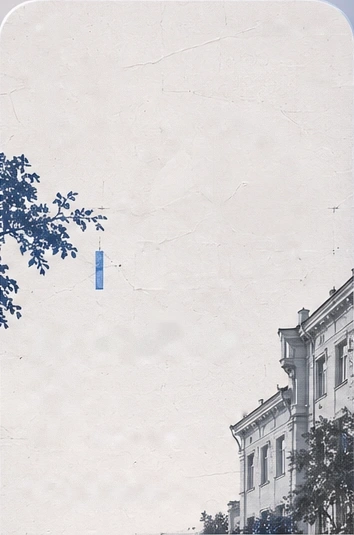
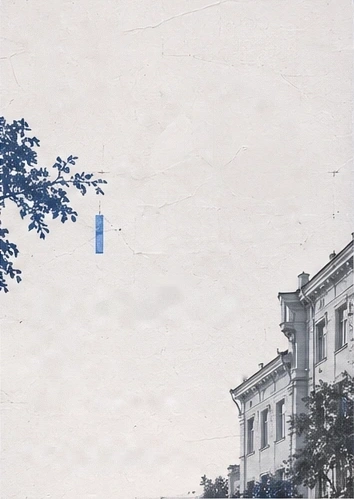
Add files via upload

diff --git a/style.css b/style.css
@@ -11,3 +11,34 @@ body{font-family:Arial,Helvetica,sans-serif}button,input,a{font-family:inherit}b
 .bottom-nav{color:var(--ink);background-color:var(--surface);background-image:linear-gradient(#eae6e1a8,#eae6e1a8),url('assets/paper.webp');background-size:auto;box-shadow:0 -1px 3px #fff5;min-height:76px;padding-bottom:max(4.4cqw,env(safe-area-inset-bottom));}.nav-item{color:#171717;min-height:44px}.nav-item span{color:inherit}.nav-item.active{color:#175bb6}.nav-item.active svg{stroke:currentColor}.nav-item.active[data-tab=home] svg{fill:currentColor}.nav-item.active:after{background:#2465ba}.nav-item:active{opacity:.72}
 .inner-page{color:var(--ink);min-height:0;padding-bottom:10cqw}.page-header,.small-brand,.inner-page h2,.intro,.panel h3,.panel p,.drink strong,.history h3{color:var(--ink)}.page-header{margin-bottom:9cqw}.eyebrow,.loyalty .eyebrow{color:#1756a9}.notice,.small-note,.drink small,.sheet .sheet-meta{color:#514b45}.panel{background:#f6f2eced;border-color:#c7bfb4}.primary{color:#fff;background:#292929;min-height:44px}.secondary{color:#242424;background:#f4efe9b3;border-color:#a59d93;min-height:44px}.primary:hover{background:#393939}.secondary:hover{background:#f8f5f0}.sheet{color:var(--ink);background-color:var(--surface);max-height:80dvh;overflow:auto}.sheet-header h2,.sheet p,.close{color:var(--ink)}.sheet a,.sheet .sheet-link{color:#1756a9;min-height:44px}.sheet .primary{color:#fff}.close{min-width:44px;min-height:44px;display:grid;place-items:center}.sheet-header h2{margin:0;line-height:1.15}.sheet-header{margin-bottom:12px}.sheet .sheet-link:hover{background:#ffffff54}.search-label{font-size:3.6cqw;color:#3e3934;display:block;font-weight:600;margin:5cqw 0 2cqw}.search{width:100%;border:1px solid #a99f94;border-radius:3cqw;background:#f7f3ed;color:#242424;min-height:46px;font-size:16px;padding:10px 12px;appearance:none}.search::placeholder{color:#655e55}.filters{display:flex;gap:2cqw;flex-wrap:wrap;margin:3cqw 0 5cqw}.filters button{background:#f5f1eb;color:#302b27;border:1px solid #b9b0a6;border-radius:99px;font-size:3.6cqw;padding:2.4cqw 3.2cqw;min-height:36px}.filters button[aria-pressed=true]{background:#245eae;border-color:#245eae;color:#fff}.drink{color:#242424;min-height:64px}.drink:hover{background:#fff5}.history{margin-top:6cqw}.history h3{font-size:5.2cqw;margin:0 0 3cqw}.history-row{display:flex;justify-content:space-between;align-items:center;border-top:1px solid var(--line);padding:3.5cqw 0;gap:12px;font-size:4cqw}.history-row time{color:#514b45;font-size:3.5cqw}.history-row strong{color:#1756a9}.toast{position:fixed;bottom:110px;left:50%;transform:translateX(-50%);z-index:20;background:#292929;color:#fff;padding:12px 20px;border-radius:15px;font-size:14px;box-shadow:0 5px 15px #0003;width:max-content;max-width:85vw;text-align:center}.loyalty strong{color:#252525}.visit-dots span{border-color:#a59e95}.visit-dots span.filled{background:#2465ba;border-color:#2465ba}
 @media(min-width:600px){.site{min-height:0}.inner-page{min-height:165cqw}}@media(max-width:350px){.site{width:calc(100% - 12px)}.filters button{font-size:12px}.nav-item{font-size:12px}}@media(prefers-reduced-motion:reduce){*,*::before,*::after{transition:none!important;animation:none!important;scroll-behavior:auto!important}}
+
+/* v3 — the browser viewport is the canvas, not a phone mockup. */
+html,body{width:100%;height:100%;margin:0;overflow:hidden;overscroll-behavior:none;background:#eae6e1;color-scheme:only light}
+body{display:flex;justify-content:center;align-items:stretch}
+.site{width:100%;max-width:none;height:100vh;height:100dvh;min-height:0;margin:0;border:0;border-radius:0;box-shadow:none;overflow:hidden;display:flex;flex-direction:column;padding:env(safe-area-inset-top,0px) env(safe-area-inset-right,0px) 0 env(safe-area-inset-left,0px);}
+.home{flex:1 1 0;min-height:0;display:flex;flex-direction:column;overflow:hidden;}
+.hero{flex:1 1 0;min-height:0;height:auto;container-type:size;background-size:100% 100%;}
+/* Sizes respond to BOTH dimensions of the available hero, not just width. */
+.hero .brand{top:3.2%;left:6.2%;width:min(31.07cqw,23cqh);height:min(25.14cqw,18.6cqh);}
+.hero .burger{top:3%;right:4.5%;width:44px;height:44px;min-width:44px;min-height:44px;padding:8px;}
+.hero .burger svg{width:28px;height:28px;}
+.hero .clock{top:14.5%;left:auto;right:12.3%;width:min(54cqw,43cqh);height:auto;aspect-ratio:1;}
+.hero h1{top:auto;bottom:23.8%;left:7.06%;width:min(62.43cqw,43.2cqh);height:min(25.99cqw,18cqh);}
+.hero .tagline{top:auto;bottom:15.4%;left:7.4%;font-size:clamp(15px,min(5.25cqw,3.65cqh),23px);line-height:1.15;letter-spacing:-.025em;white-space:nowrap;}
+.hero .location{top:auto;bottom:3.3%;left:6.8%;min-height:44px;gap:3cqw;font-size:clamp(12px,min(4.12cqw,3.05cqh),18px);line-height:1.2;}
+.hero .location svg{width:clamp(22px,6.8cqw,30px);height:clamp(22px,6.8cqw,30px);}
+.city-strip{flex:none;height:clamp(46px,10.6dvh,106px);margin:clamp(5px,1dvh,9px) 0 0 3cqw;}
+.order-wrap{flex:none;padding:clamp(7px,1.45dvh,13px) 4.2cqw clamp(9px,1.7dvh,16px);}
+.order{height:clamp(44px,6.8dvh,62px);font-size:clamp(16px,5.25cqw,23px);gap:5cqw;}
+.order svg{width:clamp(23px,8cqw,32px);height:clamp(23px,8cqw,32px);}
+.order .order-arrow{width:clamp(20px,6.5cqw,28px);height:clamp(20px,6.5cqw,28px);top:50%;transform:translateY(-50%);}
+.bottom-nav{position:relative;bottom:auto;flex:none;height:auto;min-height:0;margin:0;padding:clamp(7px,1.3dvh,12px) 2cqw calc(clamp(8px,1.2dvh,12px) + env(safe-area-inset-bottom,0px));border-radius:22px 22px 0 0;}
+.nav-item{height:clamp(48px,7.1dvh,62px);min-height:44px;gap:clamp(4px,.8dvh,7px);font-size:clamp(11px,3.5cqw,15px);justify-content:flex-start;padding:2px 0 7px;}
+.nav-item svg{width:clamp(23px,6.8cqw,30px);height:clamp(23px,6.8cqw,30px);flex:none;}
+.nav-item.active:after{bottom:0;width:clamp(35px,13cqw,56px);height:2px;}
+.inner-page{flex:1 1 0;min-height:0;overflow:auto;overscroll-behavior:contain;padding-bottom:7cqw;}
+.toast{bottom:calc(90px + env(safe-area-inset-bottom,0px));}
+@media(min-width:600px){html,body{background:#b9bdc7}.site{max-width:480px;}}
+@media(max-height:600px){.hero .clock{top:12%;width:min(52cqw,41cqh)}.hero h1{bottom:26%;height:min(25.99cqw,17cqh);width:min(62.43cqw,40.8cqh)}.hero .tagline{bottom:17%;}.hero .location{bottom:1%;}.city-strip{height:clamp(35px,9dvh,65px)}.order-wrap{padding-top:7px;padding-bottom:8px}.bottom-nav{padding-top:6px;padding-bottom:calc(6px + env(safe-area-inset-bottom,0px));}}
+/* Extreme landscape: put the hero content alongside the action area. */
+@media(orientation:landscape) and (max-height:500px){.site{max-width:none}.home{display:grid;grid-template-columns: minmax(0,1fr) minmax(0,.55fr);grid-template-rows:1fr auto;column-gap:12px;}.hero{grid-row:1/3}.city-strip{height:auto;min-height:0;margin:8px 8px 0 0;}.order-wrap{padding:8px 8px 8px 0}.order{font-size:16px;gap:8px}.order span{margin-right:15px}.order .order-arrow{right:4%}.bottom-nav{padding:4px 2cqw calc(4px + env(safe-area-inset-bottom,0px))}.nav-item{height:44px;gap:3px}.hero .clock{right:9%;top:7%;}.hero h1{bottom:31%}.hero .tagline{bottom:21%}.hero .location{bottom:1%;font-size:12px}.hero .brand{top:4%;}.inner-page{padding:20px 24px}.page-header{margin-bottom:20px}}

diff --git a/app.js b/app.js
@@ -34,7 +34,7 @@ $('#add-visit').addEventListener('click',()=>{if(visits<12){visits++;history.uns
 $('#reset-visits').addEventListener('click',()=>{openSheet('Сбросить прогресс?','<p>Тестовые посещения и история будут удалены. Циферблат вернётся к состоянию 1 из 12.</p><button class="primary" id="confirm-reset" type="button">Сбросить</button><button class="secondary" id="cancel-reset" type="button">Отмена</button>');$('#confirm-reset').onclick=()=>{visits=1;history=[];storeVisits();sheet.close();toast('Прогресс сброшен');};$('#cancel-reset').onclick=()=>sheet.close();});
 updateVisits();
 const pages = ['home','menu','events','profile'];
-function showPage(){const wanted=location.hash.slice(1);const page=pages.includes(wanted)?wanted:'home';$$('[data-page]').forEach(el=>el.hidden=el.dataset.page!==page);$$('[data-tab]').forEach(el=>{const active=el.dataset.tab===page;el.classList.toggle('active',active);if(active)el.setAttribute('aria-current','page');else el.removeAttribute('aria-current');});window.scrollTo({top:0,behavior:'instant'});document.title=({home:'12 — Кофейня',menu:'Меню — 12',events:'События — 12',profile:'Профиль — 12'})[page];}
+function showPage(){const wanted=location.hash.slice(1);const page=pages.includes(wanted)?wanted:'home';$$('[data-page]').forEach(el=>el.hidden=el.dataset.page!==page);$$('[data-tab]').forEach(el=>{const active=el.dataset.tab===page;el.classList.toggle('active',active);if(active)el.setAttribute('aria-current','page');else el.removeAttribute('aria-current');});document.querySelector('[data-page="'+page+'"]').scrollTop=0;document.title=({home:'12 — Кофейня',menu:'Меню — 12',events:'События — 12',profile:'Профиль — 12'})[page];}
 function go(page){if(location.hash===`#${page}`)showPage();else location.hash=page;}
 window.addEventListener('hashchange',showPage);showPage();
 $$('[data-go]').forEach(el=>el.addEventListener('click',()=>go(el.dataset.go)));

diff --git a/index.html b/index.html
@@ -1,7 +1,7 @@
 <!doctype html>
 <html lang="ru">
 <head>
-<meta charset="utf-8"><meta name="viewport" content="width=device-width, initial-scale=1, viewport-fit=cover"><meta name="theme-color" content="#e9e5df"><meta name="color-scheme" content="only light"><meta name="description" content="Кофейня 12 — кофе, город и время. Барнаул, площадь Октября."><title>12 — Кофейня</title><link rel="icon" href="assets/icon.svg" type="image/svg+xml"><link rel="stylesheet" href="style.css?v=2"><script src="app.js?v=2" defer></script>
+<meta charset="utf-8"><meta name="viewport" content="width=device-width, initial-scale=1, viewport-fit=cover"><meta name="theme-color" content="#e9e5df"><meta name="color-scheme" content="only light"><meta name="description" content="Кофейня 12 — кофе, город и время. Барнаул, площадь Октября."><title>12 — Кофейня</title><link rel="icon" href="assets/icon.svg" type="image/svg+xml"><link rel="stylesheet" href="style.css?v=3"><script src="app.js?v=3" defer></script>
 </head>
 <body>
 <svg xmlns="http://www.w3.org/2000/svg" class="symbols" aria-hidden="true"><defs>
@@ -18,7 +18,6 @@
 <div class="site" id="site">
 <main id="home" class="home" data-page="home">
  <section class="hero" aria-label="Кофейня 12">
-  <div class="time-mark" aria-label="Здесь всегда полдень">12:00</div>
   <a class="brand" href="#home" aria-label="Кофейня 12, главная">12</a>
   <button class="burger" type="button" aria-label="Открыть навигацию" id="burger" aria-expanded="false"><svg aria-hidden="true"><use href="#i-menu"/></svg></button>
   <button class="clock" id="clock" type="button" aria-label="Карта лояльности, 1 из 12 посещений" title="Моя карта лояльности">

diff --git a/README.md b/README.md
@@ -1,34 +1,11 @@
-# Кофейня 12
+# Кофейня 12 — v3
 
-Статический мобильный сайт по предоставленному дизайн-референсу. HTML, CSS, JavaScript и локальные изображения. Без зависимостей, сборки, сторонних шрифтов или API. Изображения декора и городской архитектуры выделены из предоставленного макета, не являются подтверждёнными фотографиями Барнаула.
+Мобильная версия: главная занимает всю доступную высоту окна (100dvh), без имитации часов телефона и без рамки. Нижняя навигация находится в потоке, остальные разделы прокручиваются отдельно.
 
-## Запуск
-Откройте `index.html` в браузере. Или запустите из этой папки `python -m http.server 8000` и откройте `http://localhost:8000`.
+## GitHub Pages
+Распакуйте архив в корень репозитория. В Settings → Pages выберите Deploy from a branch → main → /(root). Все пути относительные.
 
-## Публикация в GitHub Pages
-1. Создайте публичный репозиторий на GitHub, например `coffee12`.
-2. Загрузите **содержимое** архива в корень репозитория (index.html, style.css, app.js, assets/, .nojekyll, README.md). Сохраните структуру папок.
-3. Откройте Settings → Pages → Build and deployment → Source: Deploy from a branch.
-4. Выберите main и / (root), нажмите Save.
-5. После успешной публикации сайт будет доступен по адресу `https://ВАШ-ЛОГИН.github.io/coffee12/`. Фактическая ссылка отображается в Settings → Pages.
+## Демо
+Часы открывают профиль. Тестовые посещения сохраняются локально. Кнопка заказа открывает меню; онлайн-заказы, настоящая программа лояльности и авторизация не подключены. Изображения города — иллюстрации из концепта.
 
-## Что работает
-- Главная, меню, события, профиль, меню-гамбургер и диалог адреса.
-- Интерактивный SVG-циферблат: при тестовом посещении рука поворачивается на 30°, синий сегмент увеличивается. Счётчик сохраняется локально в браузере. Начальное состояние — 1 из 12, как в референсе.
-- Кнопка заказа открывает демонстрационное меню, а не отправляет заказ. Реальный ассортимент, цены, режим работы и точный вход не предоставлены.
-- Программа лояльности является демонстрацией, без авторизации, сервера, базы данных или подтверждения посещений бариста. Для настоящих бонусов потребуется серверная проверка и отдельный интерфейс сотрудника.
-- Упоминаний коворкинга нет.
-
-## Настройка
-- `index.html`: тексты, разделы, адрес.
-- `style.css`: оформление, размеры, цвет `--blue`.
-- `app.js`: демонстрационное меню, логика циферблата, навигация.
-- `assets/`: декоративные изображения из исходного референса. При запуске можно заменить иллюстрации на реальные фотографии с правами на публикацию.
-
-Системная строка телефона и корпус устройства не имитируются; «12:00» вверху — часть фирменной идеи.
-
-## Версия 2
-- Явная светлая палитра и фиксированные цвета текста, кнопок, SVG и активной навигации. Системная тёмная тема не должна менять оформление.
-- Поиск и фильтры демонстрационного меню, история новых тестовых посещений, подтверждение сброса и уведомления.
-- Сохранена структура главного экрана, графика референса и прежний ключ локального хранения посещений. История предыдущих посещений до версии 2 недоступна.
-- При обновлении существующего репозитория замените все файлы новой версией, сохранив папку assets. Реальных заказов и начислений нет.
+Файлы: index.html, style.css, app.js, assets/.
